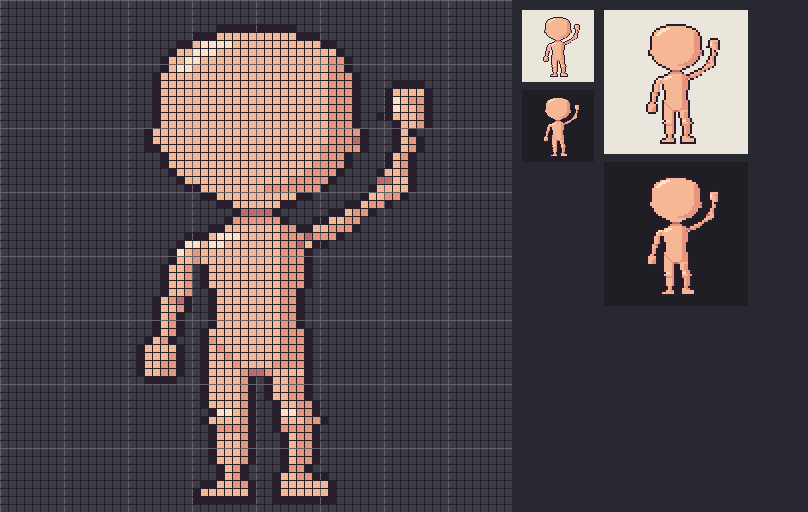
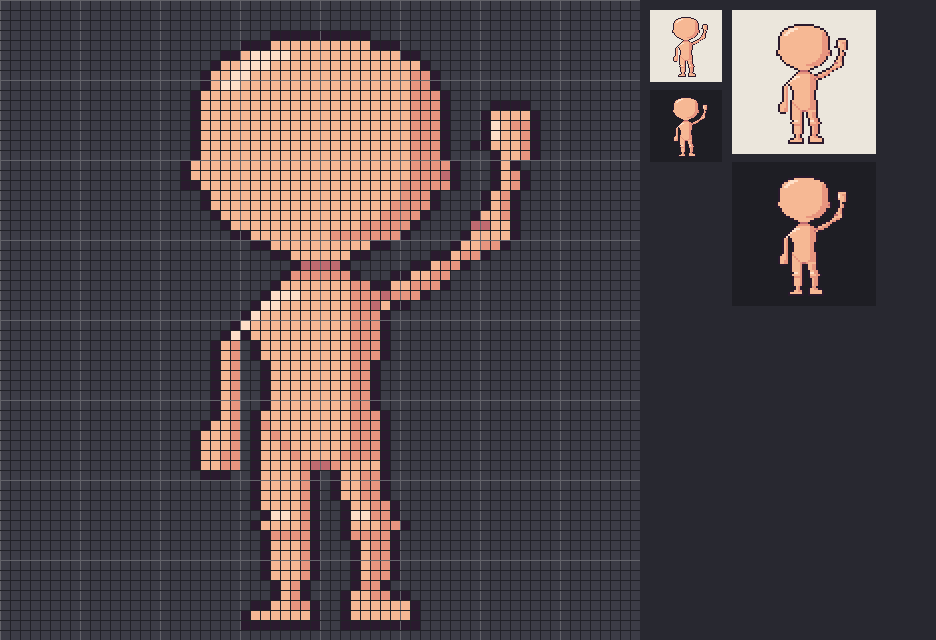
Chibi : pas d'épaule marquée (méthode v10.1) et correction de chibi2
Le bras gauche de chibi2 part maintenant du cou en pente régulière, sans
bosse de deltoïde. La règle impérative 10, C13-A, C14-A, C8, C10 et le
résumé de la méthode l'imposent pour tout personnage chibi.

Claude-Session: https://claude.ai/code/session_01499zPYjaCyxWz6oZrfTvjy

Changed region(s): [[0.1547, 0.0, 0.9592, 1.0], [0.0309, 0.0, 0.1238, 1.0]]

diff --git a/pixel_art/METHODE_PIXEL_ART.md b/pixel_art/METHODE_PIXEL_ART.md
@@ -1,9 +1,12 @@
-# Méthode de pixel art — objets et personnages (v10)
+# Méthode de pixel art — objets et personnages (v10.1)
 
 On construit d'abord, on détaille ensuite. Cette méthode réunit le dessin classique
 (construction par volumes, ligne d'action, anatomie) et les règles du pixel art
 (silhouette, valeurs, clusters, lignes propres, rampes, lumière).
 
+> **v10.1 :** **chibi = pas d'épaule marquée** (règle impérative 10, C13-A, C14-A) : les bras
+> partent directement du torse, le contour glisse du cou au bras sans bosse de deltoïde.
+>
 > **v10 :** bloc **Règles impératives** en tête (tout ce que les tests ont appris, en
 > ordres courts) ; nouvelle section **C14** (corps nu d'abord, vêtements en calque, test 10
 > « chibi2 ») ; ordre du chibi (C13-B) refait : le corps nu passe avant tout le reste ;
@@ -77,8 +80,17 @@ Chaque règle est un ordre. Le détail et le « pourquoi » sont dans la section
    nettoyage et la planche (C13-B).
 
 **Corps**
-10. **Marque chaque jointure** : rondeur de l'épaule, creux d'aisselle, pli du coude,
-    poignet resserré, V de l'aine, rotule claire et ombre dessous, cheville resserrée.
+10. **Marque chaque jointure** : creux d'aisselle, pli du coude, poignet resserré, V de
+    l'aine, rotule claire et ombre dessous, cheville resserrée. **L'épaule dépend du style :**
+    - **Chibi (toujours en dessous de 64 px, et au-delà dès que la tête est grosse) : pas
+      d'épaule marquée.** Pas de bosse de deltoïde, pas de marche dans le contour. Le trait
+      descend du cou en **une pente régulière** (1 px de côté par rangée) jusqu'au bord
+      extérieur du bras. Ensuite, le bras pend droit, collé au torse, et seul un trait de
+      séparation l'en détache (C13-A). Une épaule marquée sur un chibi est laide : ne la
+      dessine jamais.
+    - **Exception :** un sprite plus grand que 64 px aux proportions plus réalistes (tête
+      plus petite pour paraître grand, comme les grands formats Pokémon) : là seulement,
+      l'épaule a sa rondeur de deltoïde (C14-A).
 11. **Donne un geste** : bras levé avec un coude, jambes en contrapposto. Jamais de membres
     en colonnes raides.
 12. **Remplis une rangée de plus sous les pieds** avant de poser le contour : sinon le
@@ -732,7 +744,8 @@ pointes à 1 px ; reflet en arc ; pointes visibles, pas cachées derrière un br
 ## C8. Contrôle propre aux personnages
 1. La pose exprime-t-elle l'intention ? Les proportions suivent-elles la colonne de têtes ?
 2. Le visage est-il attirant et majoritairement éclairé ? Se lit-il à ×1, comme les mains ?
-3. Chaque articulation est-elle plausible ? Le deltoïde dépasse-t-il la cage ? Le cou
+3. Chaque articulation est-elle plausible ? Le deltoïde dépasse-t-il la cage (sauf en
+   chibi, où il n'y a pas d'épaule marquée : règle 10) ? Le cou
    part-il de derrière la mâchoire ? Le pouce part-il du poignet ?
 4. Peut-on nommer les muscles qui font le contour de chaque membre (C9-I) ? Reste-t-il un
    bras « tube » ou un torse « rectangle » ?
@@ -952,8 +965,8 @@ recopié à l'identique, sinon l'animation tremble.
 ### J2. Leçons du test 5 (Lina en 16×32, 32, 64 et portraits 32/48/64) [T5]
 - **Œil à 32 px :** 2×3 (pupille sombre, reflet 1 px en haut du côté de la lumière, ton de
   l'iris en bas). Un 2×2 avec le reflet en bas lit comme un œil blanc ou un regard endormi.
-- **Corps à 64 px :** jamais un torse rectangle et des bras en tubes. Il faut épaules,
-  taille, hanches, coudes et mollets : au moins 1 px de variation de largeur à chaque
+- **Corps à 64 px :** jamais un torse rectangle et des bras en tubes. Il faut taille,
+  hanches, coudes et mollets (en chibi, l'épaule reste une simple pente : règle 10) : au moins 1 px de variation de largeur à chaque
   articulation.
 - **Frange :** les pointes de mèches sombres au-dessus des yeux lisent comme des sourcils
   froncés. Ton sombre seulement sur les côtés, frange relevée, une seule rangée d'ombre
@@ -1200,6 +1213,11 @@ pièges propres au chibi.
 ### A. Proportions et construction (calques de couleur, R4)
 - **2,5 à 3 têtes** de haut ; tête ≈ 40 % de la hauteur ; yeux sous le milieu de la tête ;
   mains et pieds petits et ronds ; pas de cou visible ou presque.
+- **Pas d'épaule marquée** (règle impérative 10) : torse en cloche ou en trapèze étroit sous
+  la tête ; le contour glisse du cou au bras en une pente régulière, puis le bras pend le
+  long du torse, séparé par un seul trait. Pas de bosse de deltoïde, pas de marche. Sur
+  chibi2, la première version avait un deltoïde en escalier : c'était moche, il a été
+  remplacé par cette pente (`c02_fill.txt`, rangées 28 à 33).
 - **Rouge = pose** : ligne d'action, axe de la tête, bâton des épaules et du bassin.
 - **Bleu = repères** : ligne des yeux, axe du visage, ligne du menton, sol.
 - **Vert = volumes** : cercle de la tête, haricot du torse, cylindres courts des membres,
@@ -1211,7 +1229,8 @@ Ordre validé sur chibi2 (`chibi2/`, étapes 01 à 08). Une étape = un fichier 
 `cXX.txt` + `etapeXX_nom.txt` + son rendu.
 1. **Construction** (A) : pose rouge, repères bleus, volumes verts (`etape01`).
 2. **Silhouette du corps nu** à plat, contour pixel-perfect (A5-6) : tête ronde, torse,
-   membres avec leurs jointures (C14-A). Une rangée de plus sous les pieds (`etape02`).
+   membres avec leurs jointures (C14-A), **sans épaule marquée** (pente cou → bras, règle 10).
+   Une rangée de plus sous les pieds (`etape02`).
 3. **Ombres du corps** : peau claire, moyenne, sombre ; ombre de tête étroite (`etape03`).
 4. **Corps final validé** : planche du corps seul (silhouette, ×1, gris). On ne passe pas à
    la suite tant que les jointures ne sont pas justes (`etape04`).
@@ -1274,7 +1293,7 @@ revérifie plus l'anatomie.
 
   | Jointure | Marque |
   |---|---|
-  | Épaule | rondeur du deltoïde, 1 px plus large que le bras |
+  | Épaule | **chibi : aucune marque**, pente régulière du cou au bras, bras collé au torse avec 1 trait de séparation (règle 10). Grand sprite aux proportions réalistes seulement : rondeur du deltoïde, 1 px plus large que le bras |
   | Aisselle | creux d'1 px en peau sombre |
   | Coude | pli d'1 px du côté intérieur, léger angle |
   | Poignet | resserré d'1 px avant la main |
@@ -1349,7 +1368,7 @@ en situation.
 contour → palette → ombres à la main → détails → nettoyage → contrôle avec la référence.
 
 **Chibi (C13 + C14) :** croquis rouge (pose) → repères bleus → volumes verts → **corps nu**
-(silhouette, jointures, ombres) → **validation du corps** → vêtements en calque (aplats 1 px
+(silhouette, jointures, pas d'épaule marquée, ombres) → **validation du corps** → vêtements en calque (aplats 1 px
 hors du corps, ombres, plis, contour du calque, bords intérieurs à la main) → visage →
 cheveux en calque → accessoires → nettoyage → planche de contrôle (×1, ×2, gris, fond
 sombre).

diff --git a/pixel_art/chibi2/INTENTION.md b/pixel_art/chibi2/INTENTION.md
@@ -3,7 +3,7 @@
 Nouveau personnage, approche « corps d'abord » (test, méthode pas encore mise à jour).
 
 1. **Corps nu** (mannequin lisse, sans détails sexuels) avec les jointures pixel art
-   correctes : épaules (deltoïde), creux d'aisselle, pli de coude, poignet resserré,
+   correctes : pas d'épaule marquée (chibi : pente cou → bras, voir règle 10), creux d'aisselle, pli de coude, poignet resserré,
    pli de l'aine en V, rotule éclairée + ombre dessous, cheville resserrée.
    → étapes 01 (construction), 02 (silhouette), 03 (ombres), 04 (corps final).
 2. **Vêtements par-dessus**, comme une couche : on ne revérifie plus les attaches
